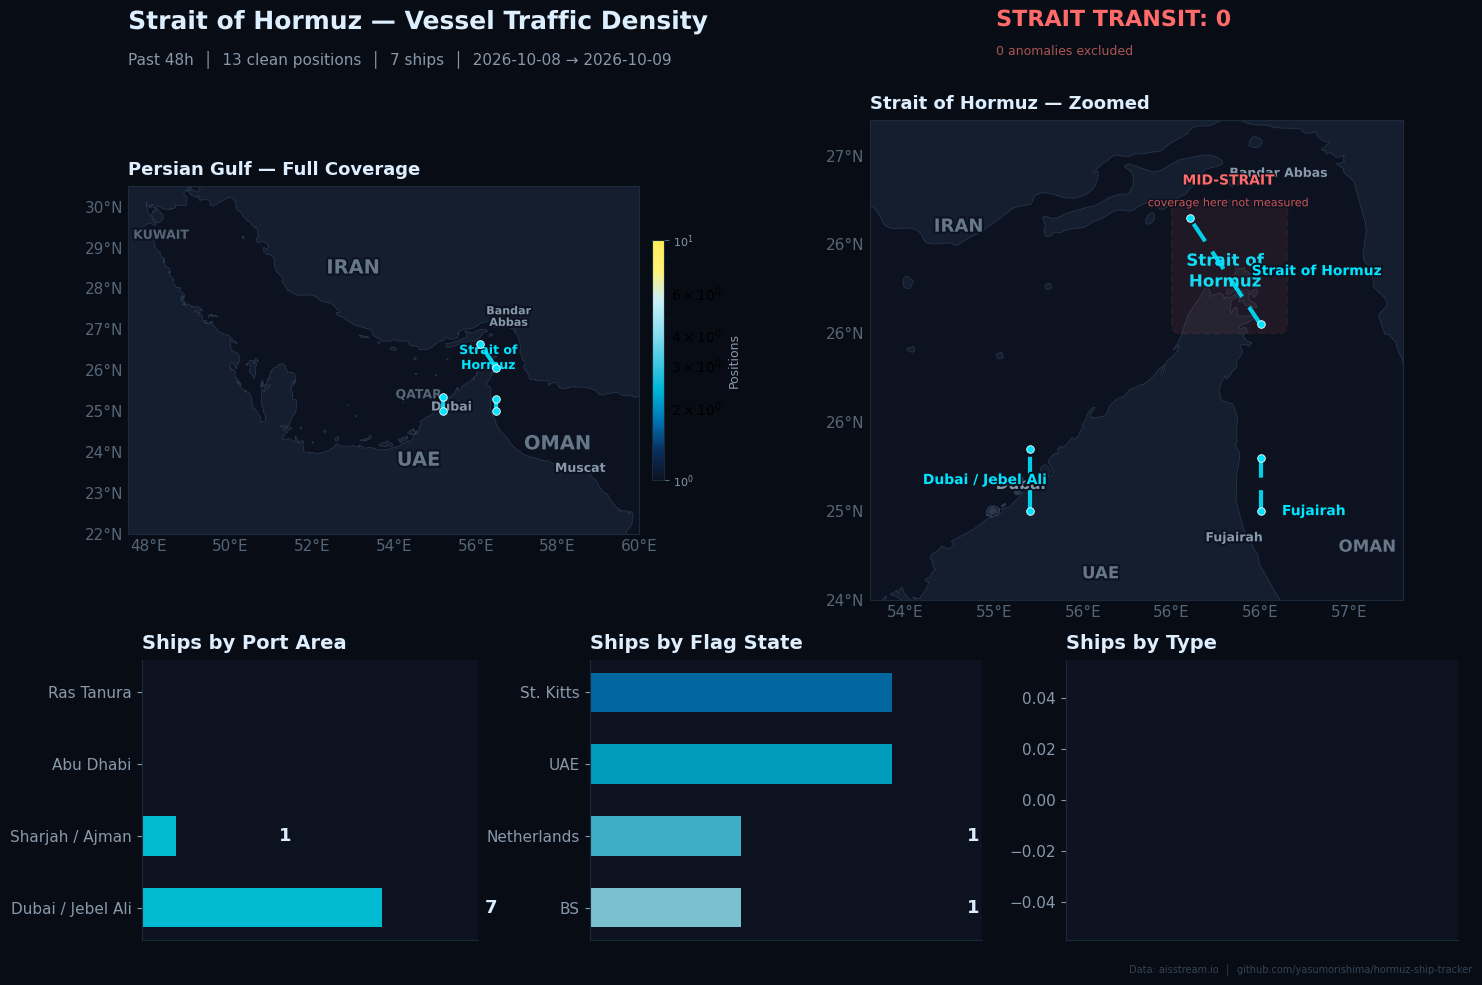
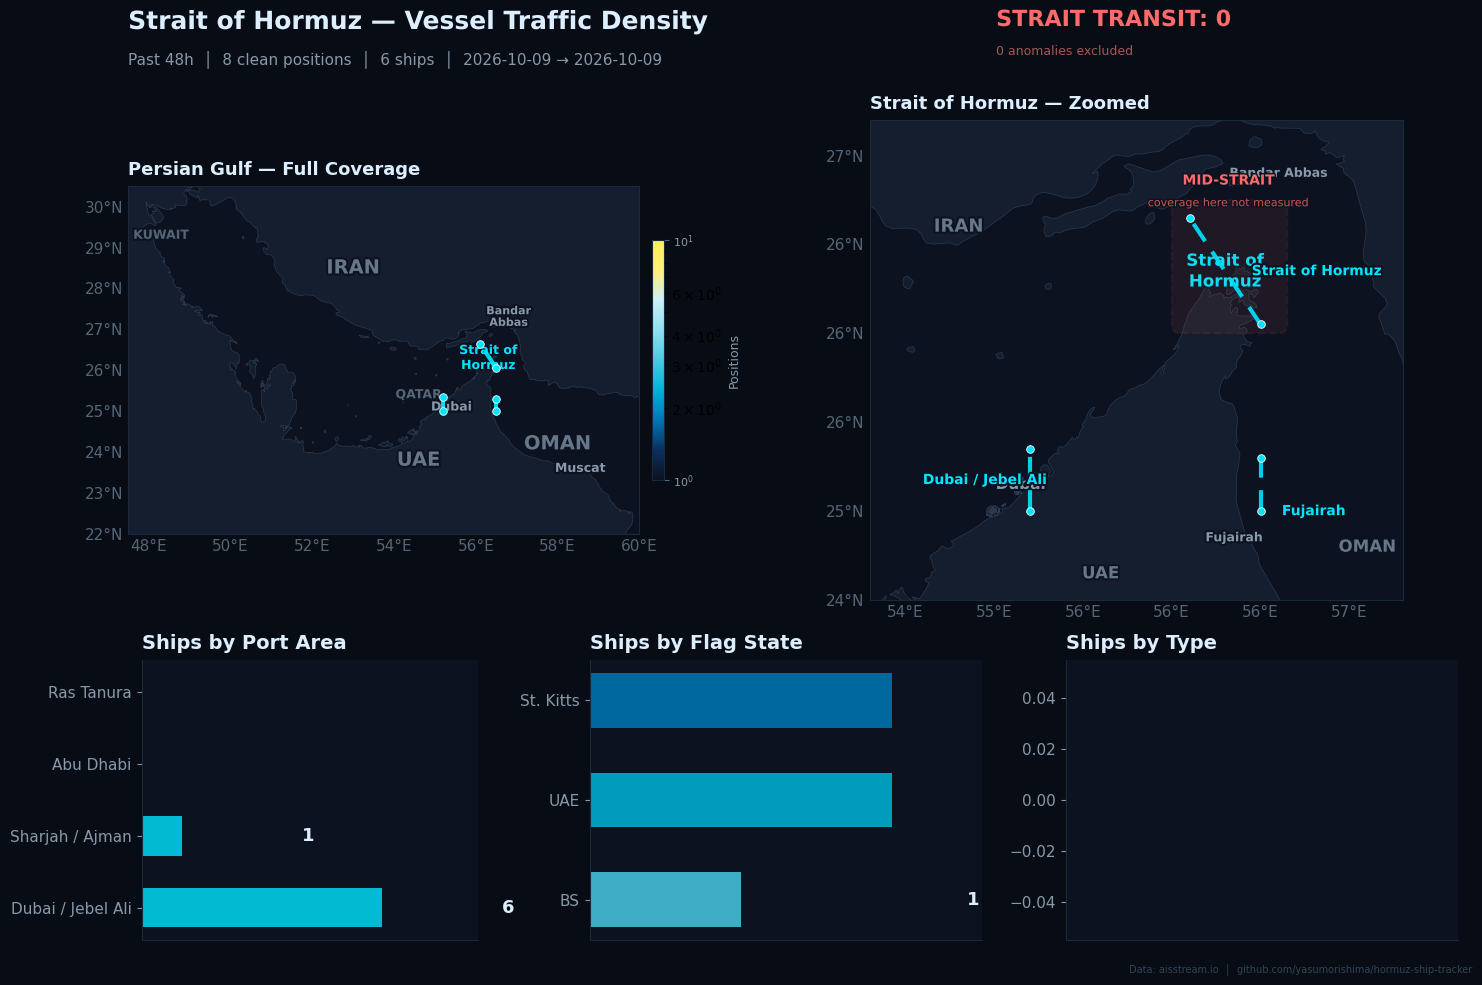
snapshot: 0 vessels at 2026-10-11 05:43 UTC

diff --git a/docs/STATS.md b/docs/STATS.md
@@ -1,17 +1,17 @@
 # Collection Statistics
 
-*Auto-updated: 2026-10-10 21:42 UTC*
+*Auto-updated: 2026-10-11 05:43 UTC*
 
 ## Overview
 
 | Metric | Value |
 |---|---|
-| Collection period | 2026-10-08 → 2026-10-09 (1.2 days) |
-| Total positions | 13 |
-| Clean positions | 13 (100%) |
+| Collection period | 2026-10-09 → 2026-10-09 (0.6 days) |
+| Total positions | 8 |
+| Clean positions | 8 (100%) |
 | Anomalous positions | 0 (0%) |
-| Unique vessels | 7 |
-| Avg positions/day | 11 |
+| Unique vessels | 6 |
+| Avg positions/day | 14 |
 | Strait of Hormuz transits | 0 |
 | Total gate crossings | 0 |
 
@@ -19,7 +19,6 @@
 
 | Date | Positions | Vessels |
 |---|---:|---:|
-| 2026-10-08 | 5 | 3 |
 | 2026-10-09 | 8 | 6 |
 
 ## Hourly Traffic Pattern (UTC)
@@ -30,10 +29,7 @@ Average positions per hour across all days (clean data only):
   01:00     2  ██████████████████████████
   07:00     3  ████████████████████████████████████████
   08:00     1  █████████████
-  09:00     1  █████████████
   15:00     2  ██████████████████████████
-  16:00     2  ██████████████████████████
-  21:00     2  ██████████████████████████
 ```
 
 ## Gate Crossings by Day
@@ -46,7 +42,6 @@ No transit events recorded yet.
 |---|---|---:|
 | KN | St. Kitts | 2 |
 | AE | UAE | 2 |
-| NL | Netherlands | 1 |
 | BS | Bahamas | 1 |
 
 ## Vessel Types
@@ -58,12 +53,11 @@ No transit events recorded yet.
 
 | Ship Name | Flag | Type | Positions | First Seen | Last Seen |
 |---|---|---|---:|---|---|
-| AARNA | KN | Unknown | 5 | 2026-10-08 | 2026-10-09 |
-| AZIZI | AE | Unknown | 3 | 2026-10-08 | 2026-10-09 |
+| AARNA | KN | Unknown | 3 | 2026-10-09 | 2026-10-09 |
 | WILLEM VAN ORANJE | BS | Unknown | 1 | 2026-10-09 | 2026-10-09 |
-| HAM 318 | NL | Unknown | 1 | 2026-10-08 | 2026-10-08 |
 | THUNDER | -- | Unknown | 1 | 2026-10-09 | 2026-10-09 |
 | ILLUMINATE | KN | Unknown | 1 | 2026-10-09 | 2026-10-09 |
+| AZIZI | AE | Unknown | 1 | 2026-10-09 | 2026-10-09 |
 
 ## Top Destinations
 
